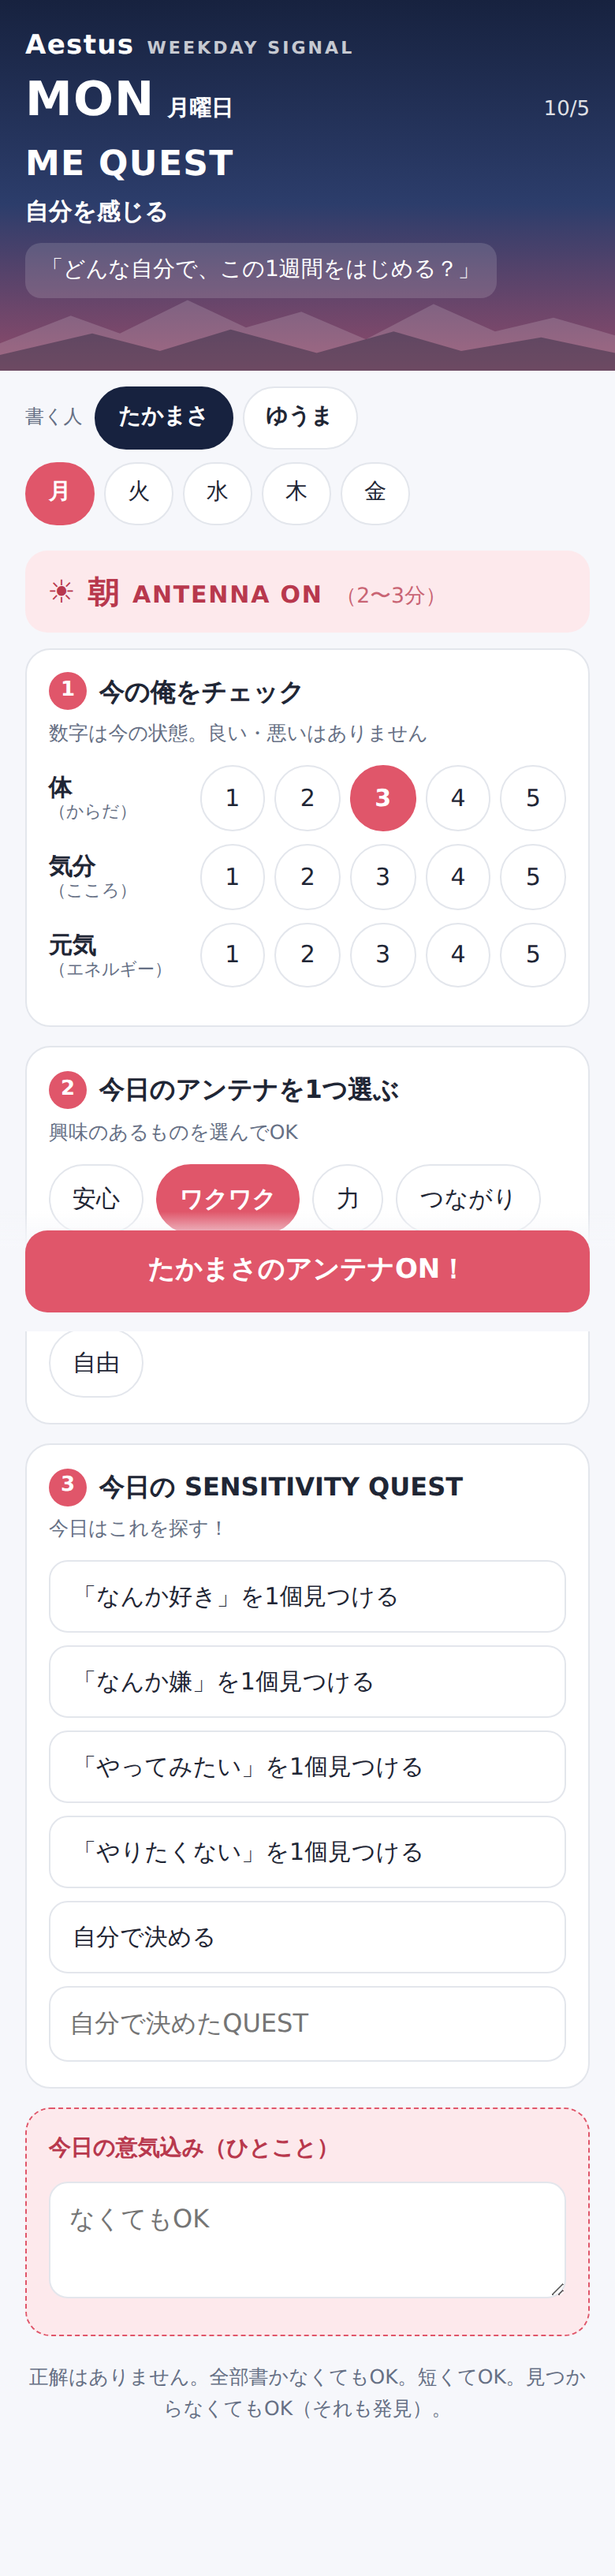
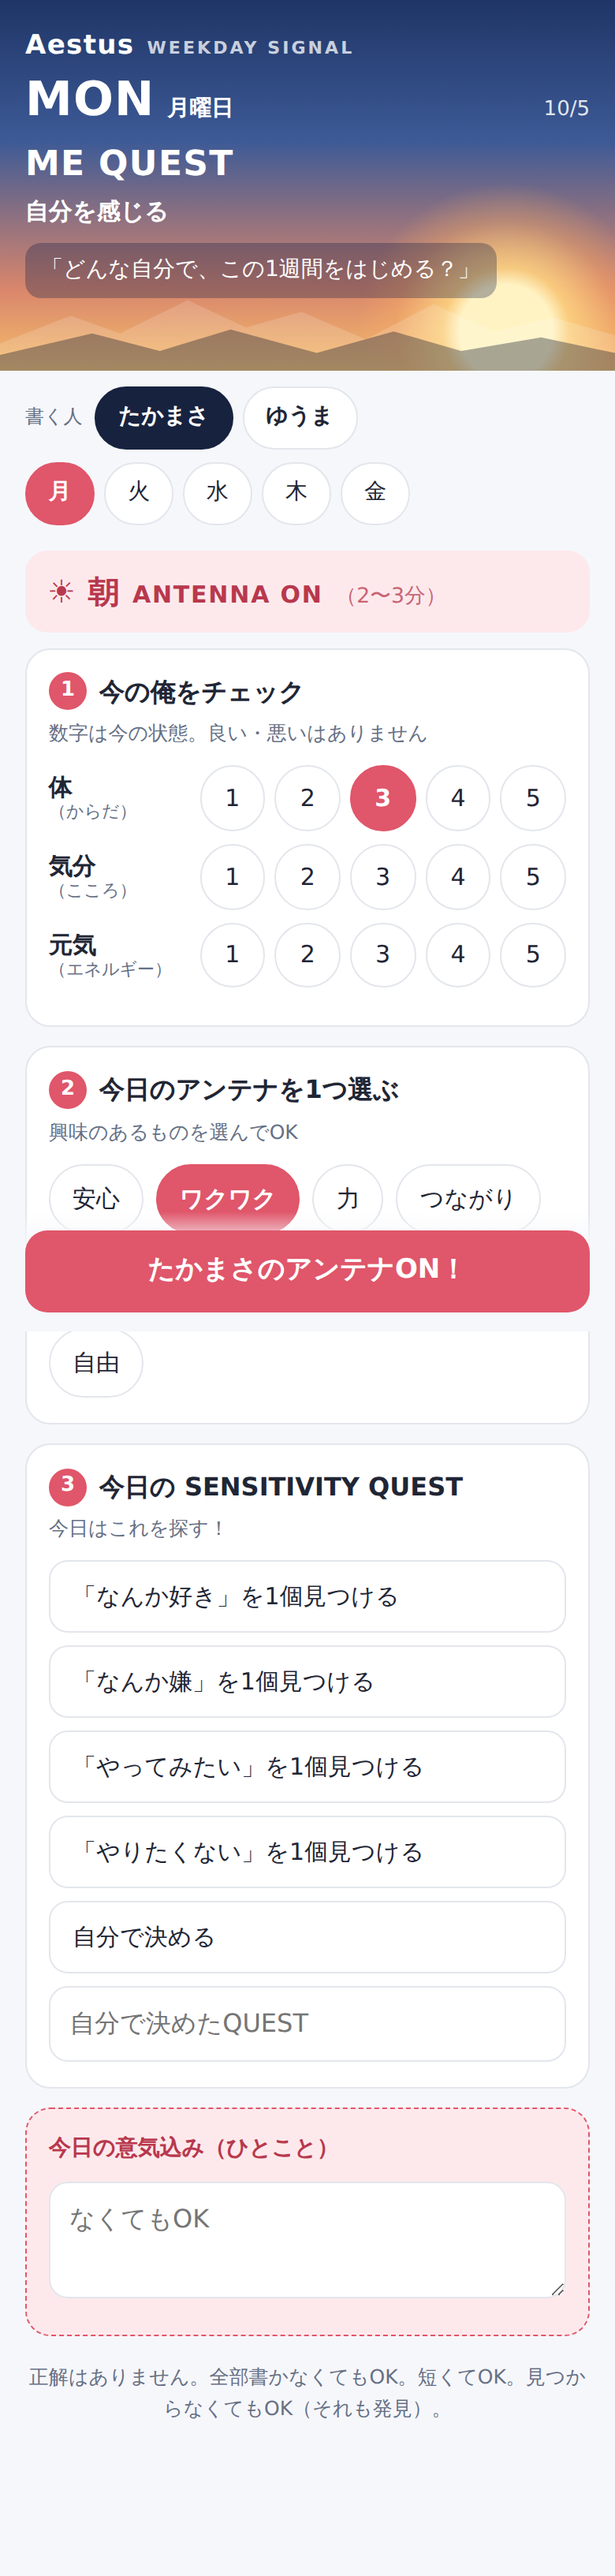
入力ページ：上の帯を朝は朝焼けと太陽、夜は星空と月に描き分ける
朝のチェックなのに夜空に見えていたため。紙のシートの朝・夜の帯に合わせる。

Claude-Session: https://claude.ai/code/session_01MdnRJeeHdqpjRrkzFFFRgS

Changed region(s): [[0.0, 0.0, 1.0, 0.1562]]

diff --git a/web/style.css b/web/style.css
@@ -17,9 +17,26 @@ main { max-width: 560px; margin: 0 auto; padding: 0 0 calc(96px + env(safe-area-
 .loading, .error { padding: 40px 16px; text-align: center; color: var(--muted); }
 .error { color: #b42318; }
 
-/* 上の帯：紺の空 → 曜日の色の朝焼け、山並み */
+/* 上の帯：紙のシートと同じく、朝は朝焼けと太陽、夜は星空と月。手前に山並み */
 .hero { position: relative; overflow: hidden; color: #fff; padding: 16px 16px 46px;
-  background: linear-gradient(180deg, var(--navy) 0%, var(--navy-2) 55%, var(--accent) 135%); }
+  background: linear-gradient(180deg, #1f3566 0%, #3d5a96 38%, #d9866c 78%, #f5be6a 100%); }
+.hero > * { position: relative; z-index: 1; }
+.hero::before, .hero::after { content: ""; position: absolute; pointer-events: none; z-index: 0; }
+/* 朝：山の向こうから昇る太陽 */
+body[data-slot="morning"] .hero::before { left: 58%; bottom: -70px; width: 190px; height: 190px; border-radius: 50%;
+  background: radial-gradient(circle, #fff3c4 0 22%, rgba(255,214,130,.85) 30%, rgba(255,180,100,.35) 52%, transparent 70%); }
+body[data-slot="morning"] .hero .q { background: rgba(20,32,70,.32); }
+/* 夜：星と三日月 */
+body[data-slot="night"] .hero { background: linear-gradient(180deg, #0c142c 0%, #18254b 60%, #2a3a68 100%); }
+body[data-slot="night"] .hero::before { inset: 0;
+  background:
+    radial-gradient(1.5px 1.5px at 12% 22%, #fff 99%, transparent), radial-gradient(1px 1px at 28% 12%, #fff 99%, transparent),
+    radial-gradient(1.5px 1.5px at 46% 30%, #fff 99%, transparent), radial-gradient(1px 1px at 63% 16%, #fff 99%, transparent),
+    radial-gradient(1.5px 1.5px at 74% 42%, #fff 99%, transparent), radial-gradient(1px 1px at 92% 8%, #fff 99%, transparent),
+    radial-gradient(1px 1px at 36% 52%, rgba(255,255,255,.8) 99%, transparent), radial-gradient(1px 1px at 84% 60%, rgba(255,255,255,.7) 99%, transparent);
+  opacity: .85; }
+body[data-slot="night"] .hero::after { right: 44px; top: 96px; width: 34px; height: 34px; border-radius: 50%;
+  box-shadow: -9px 5px 0 0 #f6e7a8; }
 .hero .brand { display: flex; align-items: baseline; gap: 8px; }
 .hero .brand b { font-size: 17px; font-weight: 800; letter-spacing: .04em; }
 .hero .brand span { font-size: 11px; font-weight: 700; letter-spacing: .14em; opacity: .75; }

diff --git a/web/app.js b/web/app.js
@@ -91,7 +91,7 @@
   const blank = (name, before, after, label) =>
     `<div class="blankline">${before ? `<span>${esc(before)}</span>` : ""}<input type="text" name="${name}" aria-label="${esc(label)}">${after ? `<span>${esc(after)}</span>` : ""}</div>`;
 
-  // 山並み（紙のシートの上の帯）。色は曜日の色に合わせる
+  // 山並み（紙のシートの上の帯）。空と太陽・月は style.css が朝・夜で描き分ける
   const MOUNTAINS = `<svg class="mtn" viewBox="0 0 400 90" preserveAspectRatio="none" aria-hidden="true">
     <path d="M0 90 L0 62 L46 34 L78 52 L122 18 L160 46 L196 30 L238 58 L282 22 L322 50 L360 36 L400 54 L400 90 Z" fill="rgba(255,255,255,.16)"/>
     <path d="M0 90 L0 74 L60 52 L104 70 L150 48 L206 72 L256 50 L300 70 L352 56 L400 72 L400 90 Z" fill="rgba(10,18,40,.35)"/></svg>`;
